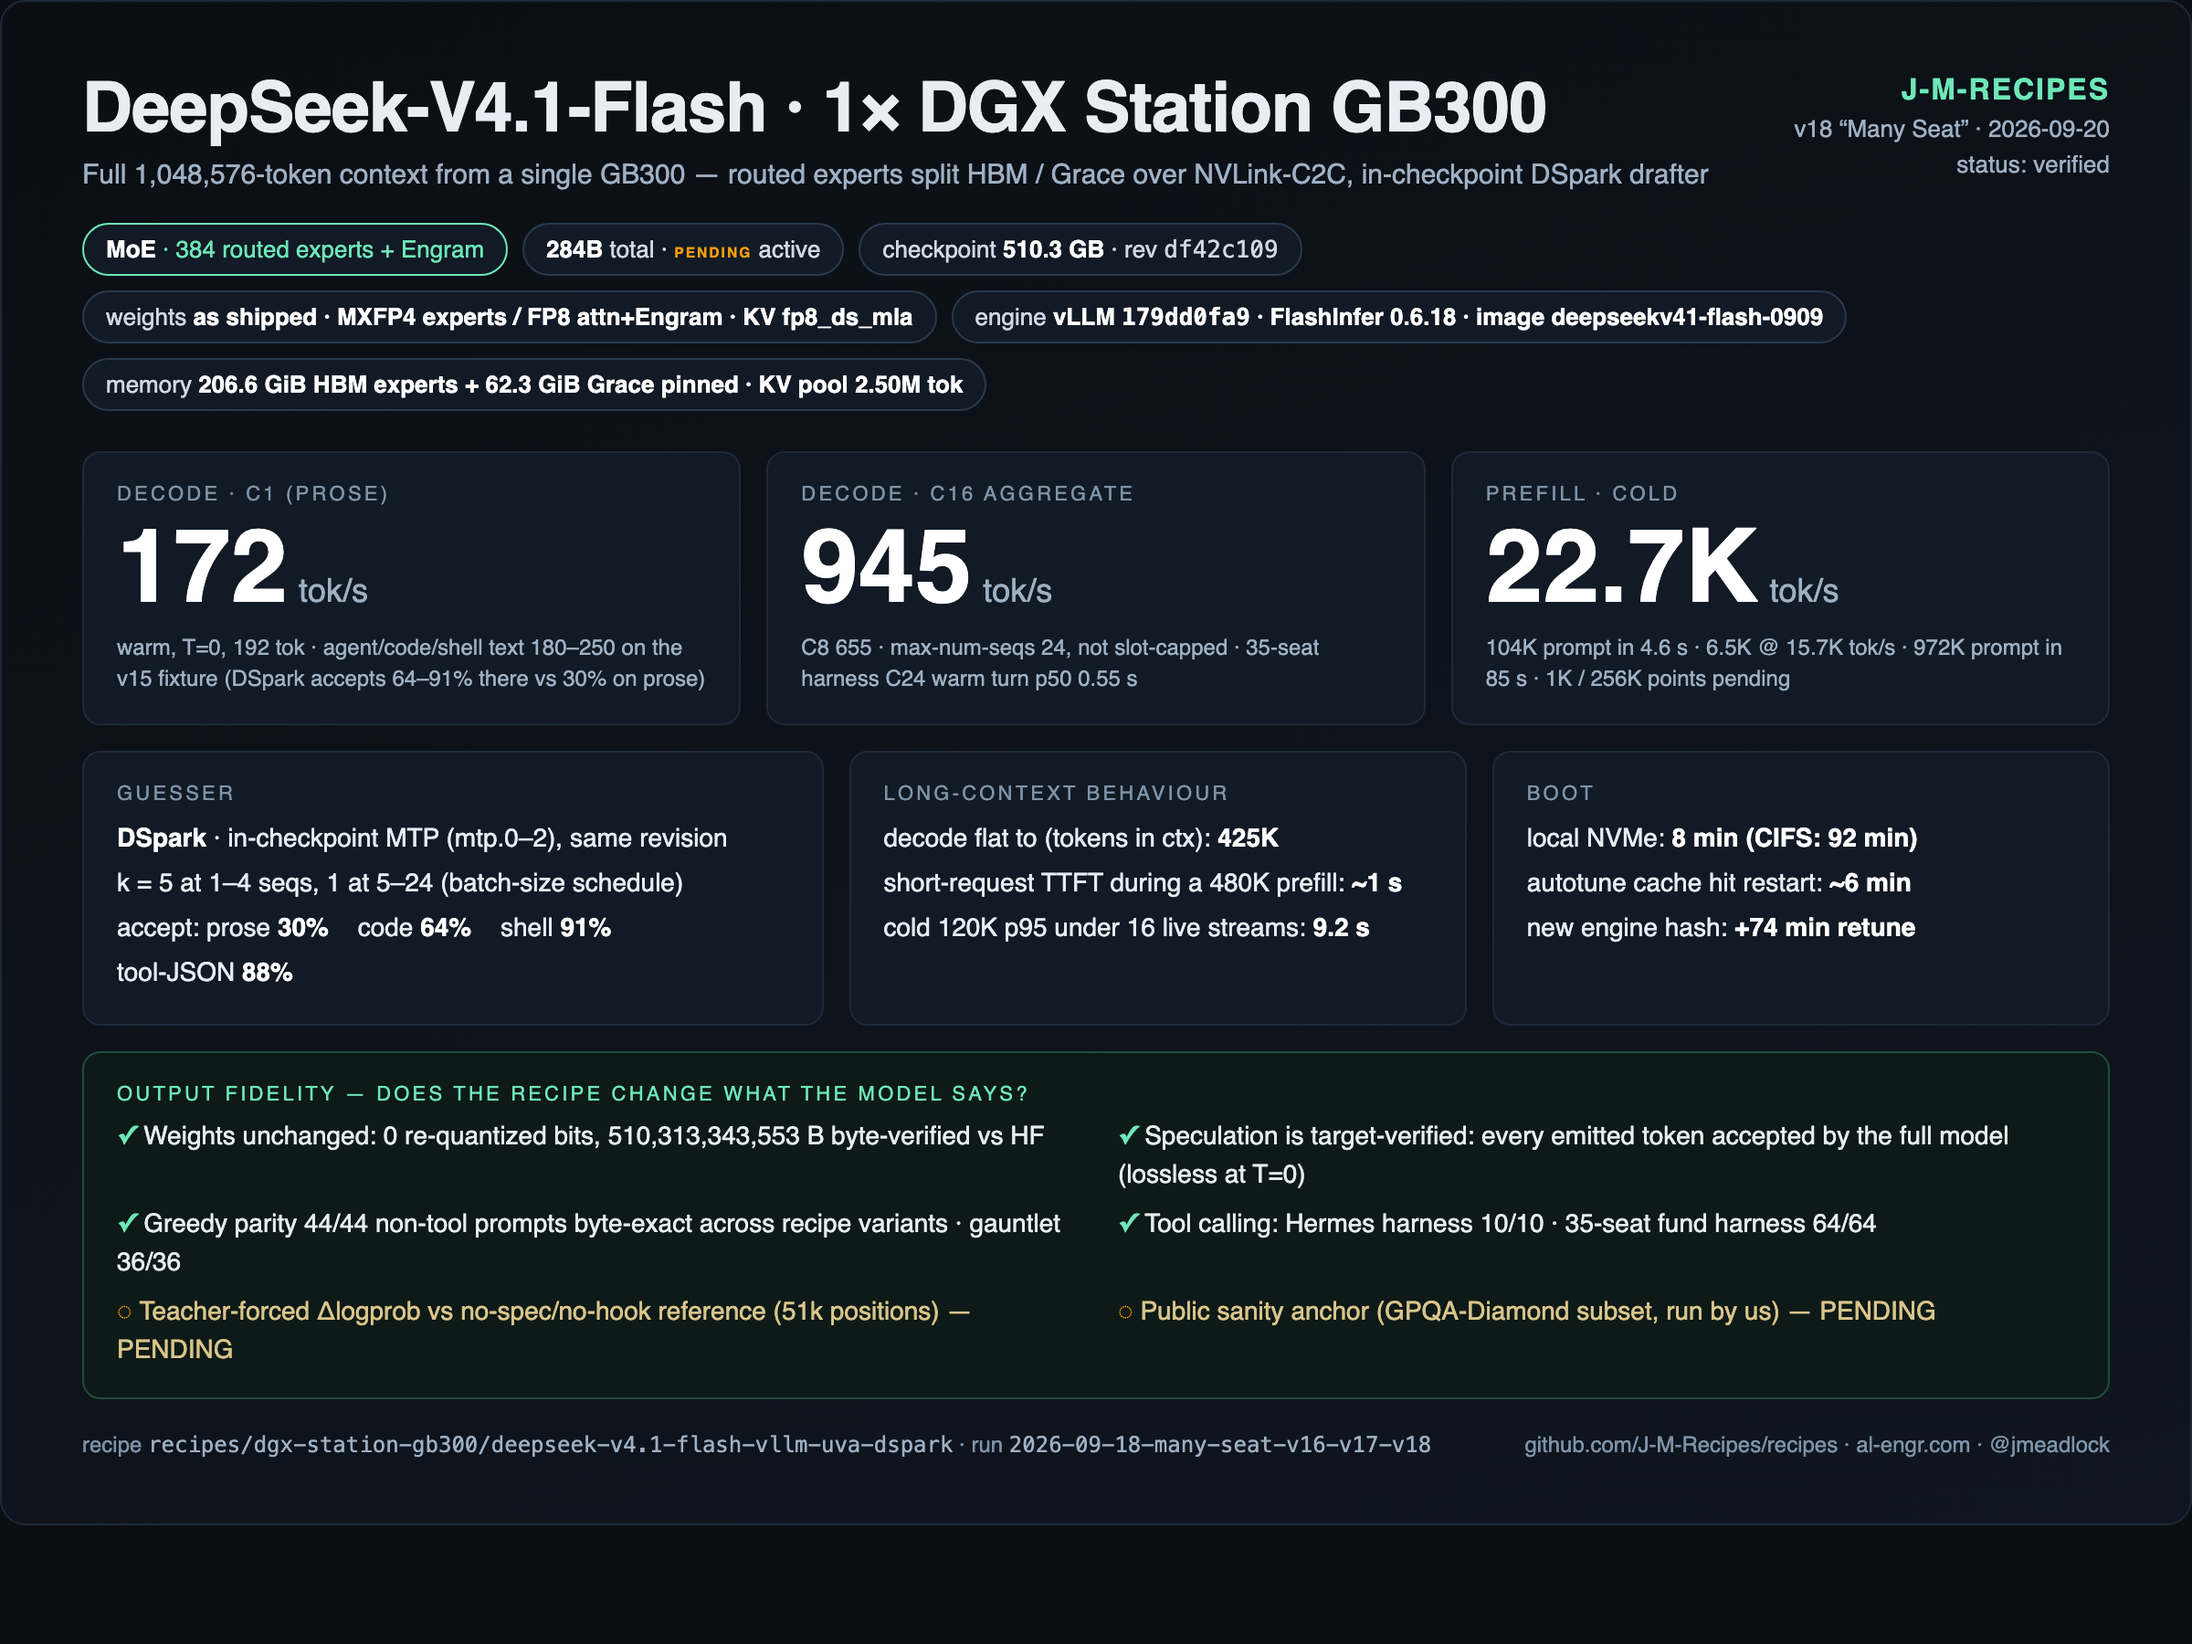
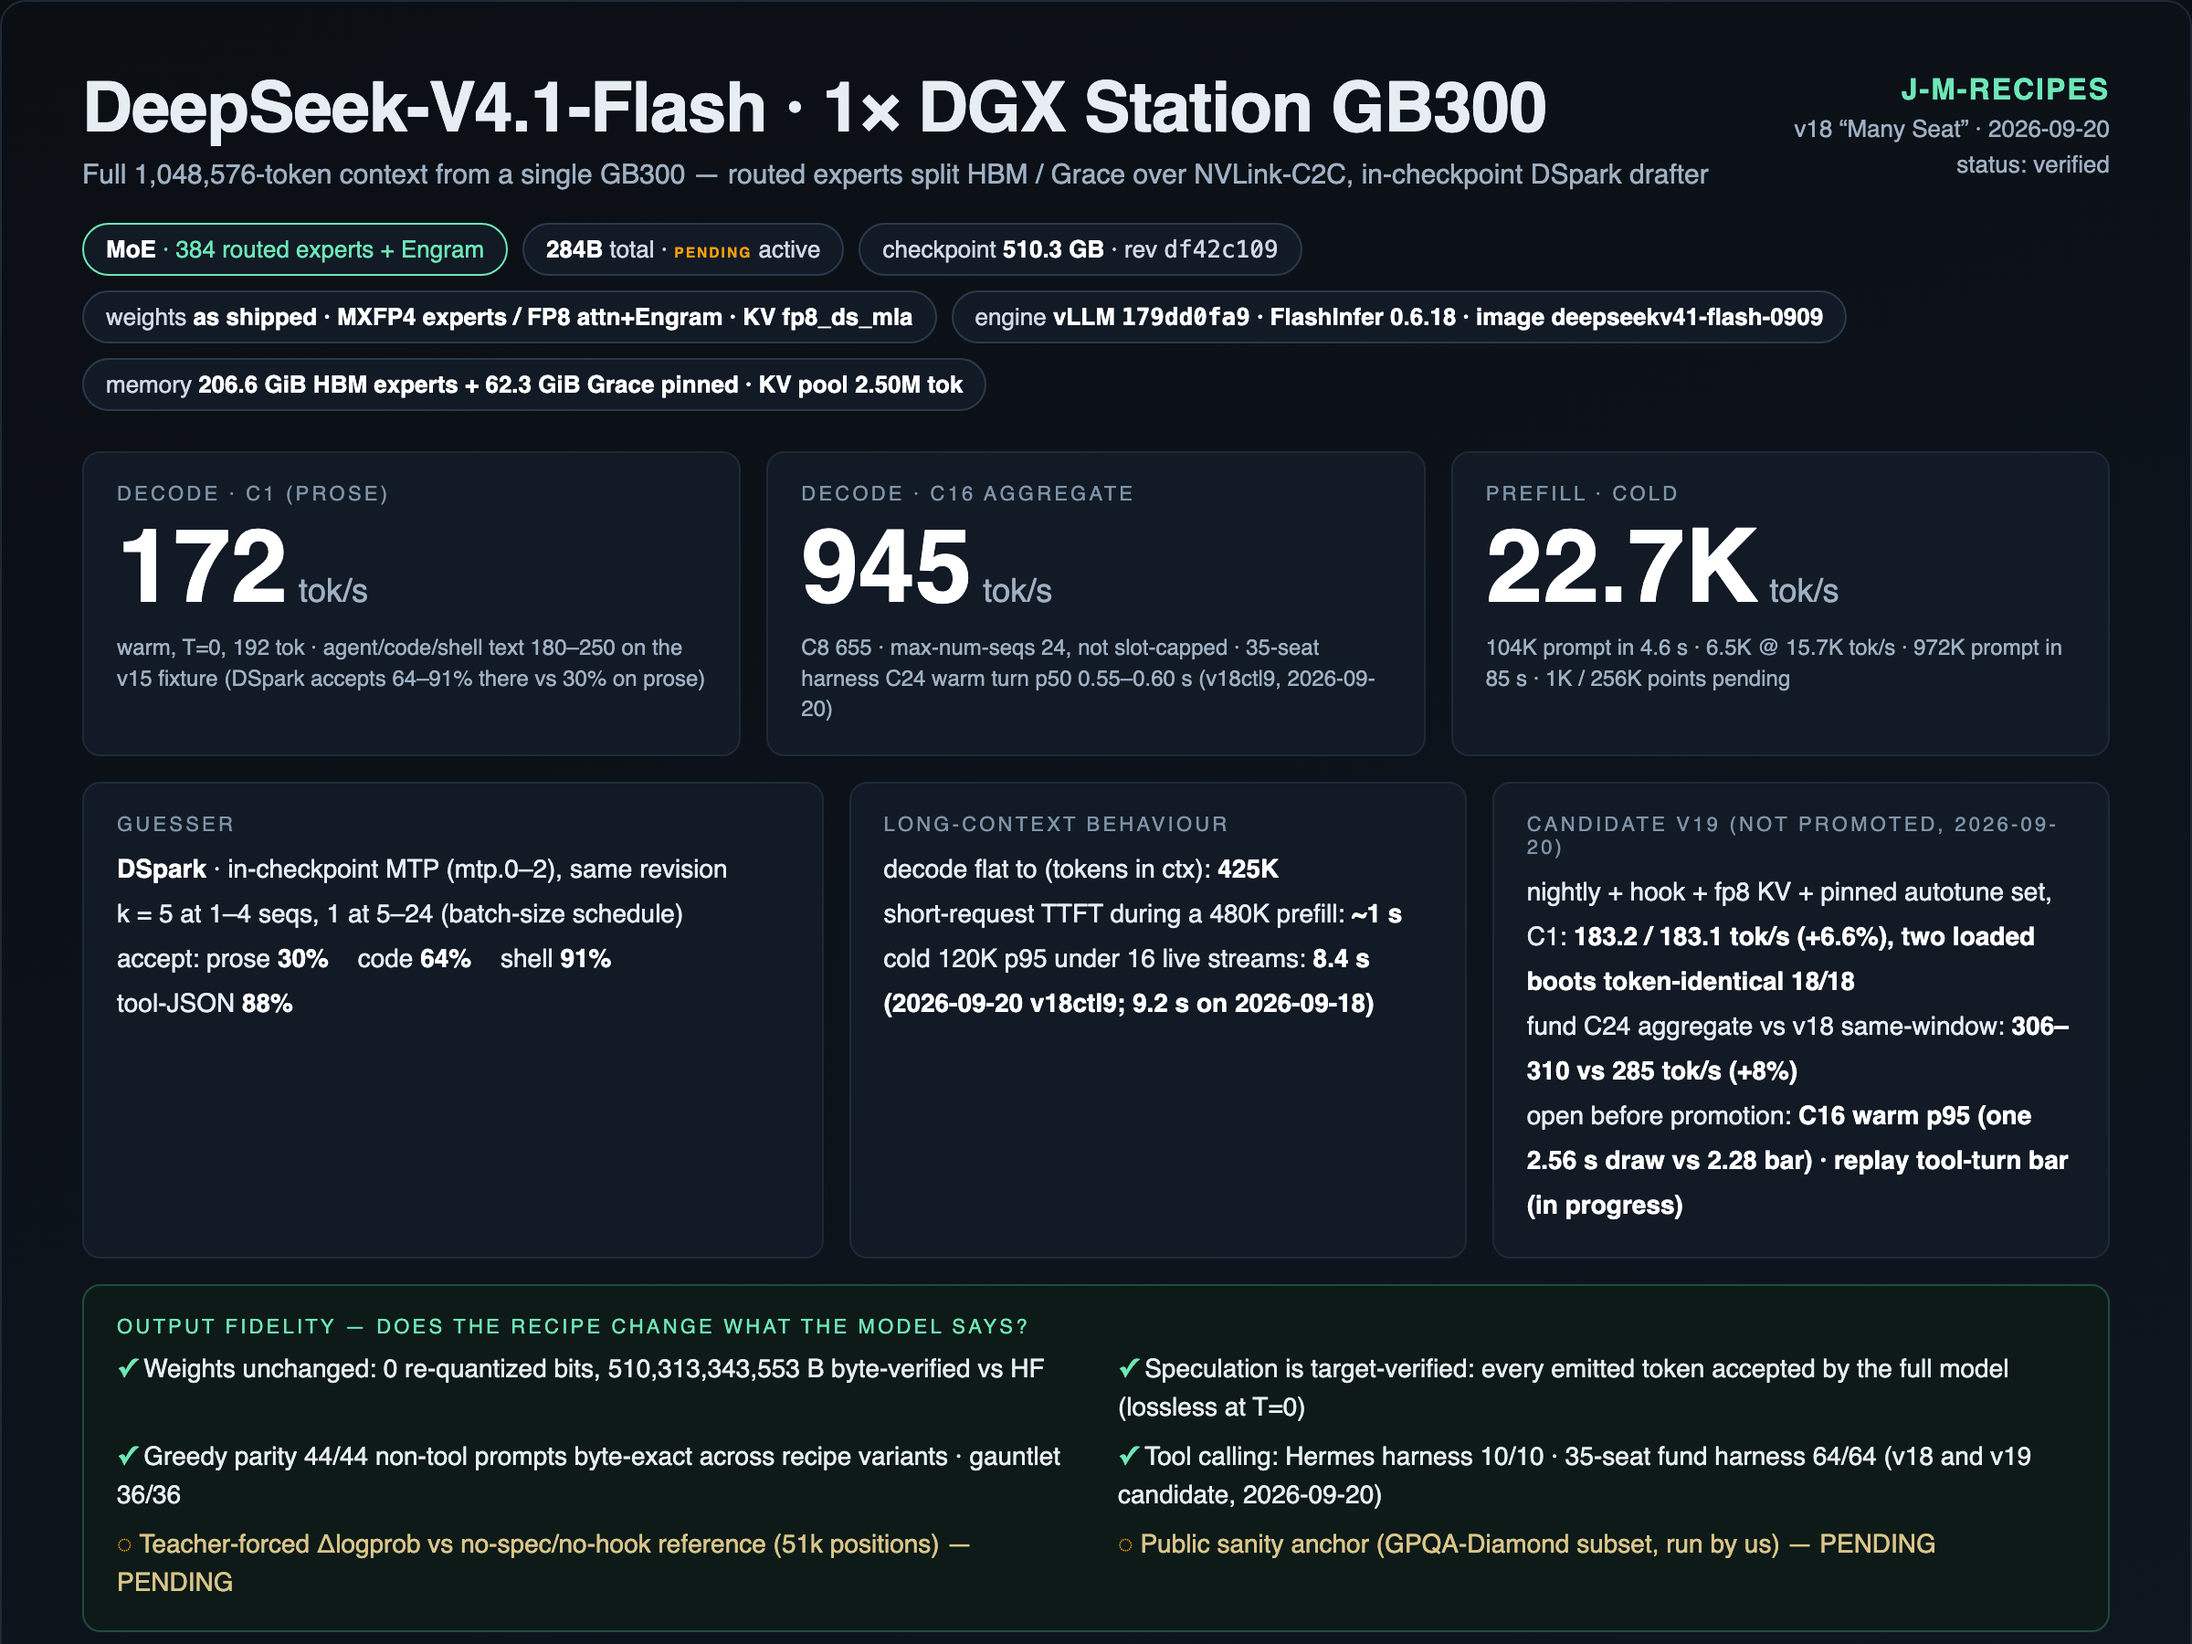
dsv41 card: regenerate after 2026-09-20 round — v19 candidate block (183 C1, +8% C24 fund, not promoted), v18ctl9 fund latencies, cold 8.4 s; rendered by scripts/render_card.py

diff --git a/recipes/dgx-station-gb300/deepseek-v4.1-flash-vllm-uva-dspark/card.html b/recipes/dgx-station-gb300/deepseek-v4.1-flash-vllm-uva-dspark/card.html
@@ -51,26 +51,26 @@
   </div>
   <div class="grid">
 <div class="box"><div class="lbl">Decode · C1 (prose)</div><div class="hero">172<small>tok/s</small></div><div class="note">warm, T=0, 192 tok · agent/code/shell text 180–250 on the v15 fixture (DSpark accepts 64–91% there vs 30% on prose)</div></div>
-<div class="box"><div class="lbl">Decode · C16 aggregate</div><div class="hero">945<small>tok/s</small></div><div class="note">C8 655 · max-num-seqs 24, not slot-capped · 35-seat harness C24 warm turn p50 0.55 s</div></div>
+<div class="box"><div class="lbl">Decode · C16 aggregate</div><div class="hero">945<small>tok/s</small></div><div class="note">C8 655 · max-num-seqs 24, not slot-capped · 35-seat harness C24 warm turn p50 0.55–0.60 s (v18ctl9, 2026-09-20)</div></div>
 <div class="box"><div class="lbl">Prefill · cold</div><div class="hero">22.7K<small>tok/s</small></div><div class="note">104K prompt in 4.6 s · 6.5K @ 15.7K tok/s · 972K prompt in 85 s · 1K / 256K points pending</div></div>
   </div>
   <div class="row2">
 <div class="box"><div class="lbl">Guesser</div><div class="kv"><b>DSpark</b> · in-checkpoint MTP (mtp.0–2), same revision<br>k = 5 at 1–4 seqs, 1 at 5–24 (batch-size schedule)<br><span class="acc">accept: <span>prose <b>30%</b></span> <span>code <b>64%</b></span> <span>shell <b>91%</b></span> <span>tool-JSON <b>88%</b></span></span></div></div>
-<div class="box"><div class="lbl">Long-context behaviour</div><div class="kv">decode flat to (tokens in ctx): <b>425K</b><br>short-request TTFT during a 480K prefill: <b>~1 s</b><br>cold 120K p95 under 16 live streams: <b>9.2 s</b></div></div>
-<div class="box"><div class="lbl">Boot</div><div class="kv">local NVMe: <b>8 min (CIFS: 92 min)</b><br>autotune cache hit restart: <b>~6 min</b><br>new engine hash: <b>+74 min retune</b></div></div>
+<div class="box"><div class="lbl">Long-context behaviour</div><div class="kv">decode flat to (tokens in ctx): <b>425K</b><br>short-request TTFT during a 480K prefill: <b>~1 s</b><br>cold 120K p95 under 16 live streams: <b>8.4 s (2026-09-20 v18ctl9; 9.2 s on 2026-09-18)</b></div></div>
+<div class="box"><div class="lbl">Candidate v19 (not promoted, 2026-09-20)</div><div class="kv">nightly + hook + fp8 KV + pinned autotune set, C1: <b>183.2 / 183.1 tok/s (+6.6%), two loaded boots token-identical 18/18</b><br>fund C24 aggregate vs v18 same-window: <b>306–310 vs 285 tok/s (+8%)</b><br>open before promotion: <b>C16 warm p95 (one 2.56 s draw vs 2.28 bar) · replay tool-turn bar (in progress)</b></div></div>
   </div>
   <div class="fid"><div class="lbl">Output fidelity — does the recipe change what the model says?</div>
     <ul>
 <li class="ok">Weights unchanged: 0 re-quantized bits, 510,313,343,553 B byte-verified vs HF</li>
 <li class="ok">Speculation is target-verified: every emitted token accepted by the full model (lossless at T=0)</li>
 <li class="ok">Greedy parity 44/44 non-tool prompts byte-exact across recipe variants · gauntlet 36/36</li>
-<li class="ok">Tool calling: Hermes harness 10/10 · 35-seat fund harness 64/64</li>
+<li class="ok">Tool calling: Hermes harness 10/10 · 35-seat fund harness 64/64 (v18 and v19 candidate, 2026-09-20)</li>
 <li class="pend">Teacher-forced Δlogprob vs no-spec/no-hook reference (51k positions) — PENDING</li>
 <li class="pend">Public sanity anchor (GPQA-Diamond subset, run by us) — PENDING</li>
     </ul>
   </div>
   <div class="foot">
-    <span>recipe <span class="mono">recipes/dgx-station-gb300/deepseek-v4.1-flash-vllm-uva-dspark</span> · run <span class="mono">2026-09-18-many-seat-v16-v17-v18</span></span>
+    <span>recipe <span class="mono">recipes/dgx-station-gb300/deepseek-v4.1-flash-vllm-uva-dspark</span> · run <span class="mono">2026-09-18-many-seat-v16-v17-v18 (v18) · 2026-09-20-v19-pair-async (v19 candidate, fund harness)</span></span>
     <span>github.com/J-M-Recipes/recipes · al-engr.com · @jmeadlock</span>
   </div>
 </div>
